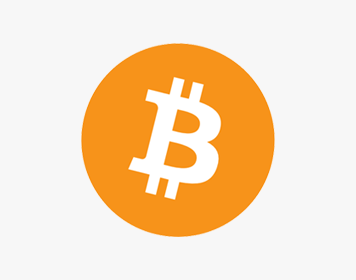
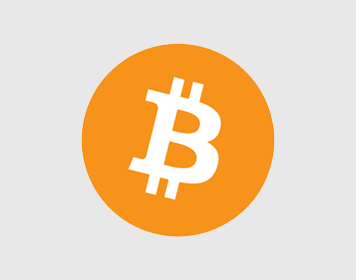
darker views

diff --git a/pocket/index.html b/pocket/index.html
@@ -31,8 +31,6 @@
         
         
     <div class="navbar navbar-dark bg-dark">
-<!--      <div class="container d-flex justify-content-between">-->
-<!--      <a href="#" class="navbar-brand">bytepocket</a>-->
           <a class="navbar-brand" href="#">
             <span><img class="icon" src="../images/logo.png" width="59" height="40"/></span>
             bytepocket
@@ -60,21 +58,21 @@
 
             <div class="card">
                 <div id="addBitcoinWallet">
-                    <img class="pic" src="images/bitcoin.png" alt="Bitcoin">
+                    <img class="pic" src="../images/bitcoin.png" alt="Bitcoin">
                     <p class="card-text">Bitcoin (BTC)</p>
                 </div>
             </div>
 
             <div class="card">
                 <div id="addEthereumWallet">
-                    <img class="pic" src="images/ethereum.png" alt="Ethereum">
+                    <img class="pic" src="../images/ethereum.png" alt="Ethereum">
                     <p class="card-text">Ethereum (ETH)</p>
                 </div>
             </div>
 
             <div class="card">
                 <div id="addRippleWallet">
-                    <img class="pic" src="images/ripple.png" alt="Ripple">
+                    <img class="pic" src="../images/ripple.png" alt="Ripple">
                     <p class="card-text">Ripple (XRP)</p>
                 </div>
             </div>

diff --git a/pocket/pocket.css b/pocket/pocket.css
@@ -15,7 +15,7 @@
     padding: 1%;
     display: flex;
     justify-content: space-around;
-    background-color: #f7f7f7;
+    background-color: #e8e8e8;
     margin: 0 auto;
     margin-bottom: 20px;
 }

diff --git a/pocket/style.css b/pocket/style.css
@@ -48,6 +48,7 @@
   padding-top: 5px;
   padding-bottom: 30px;
   text-align: center;
+  color: black;
 }
 
 .pic {
